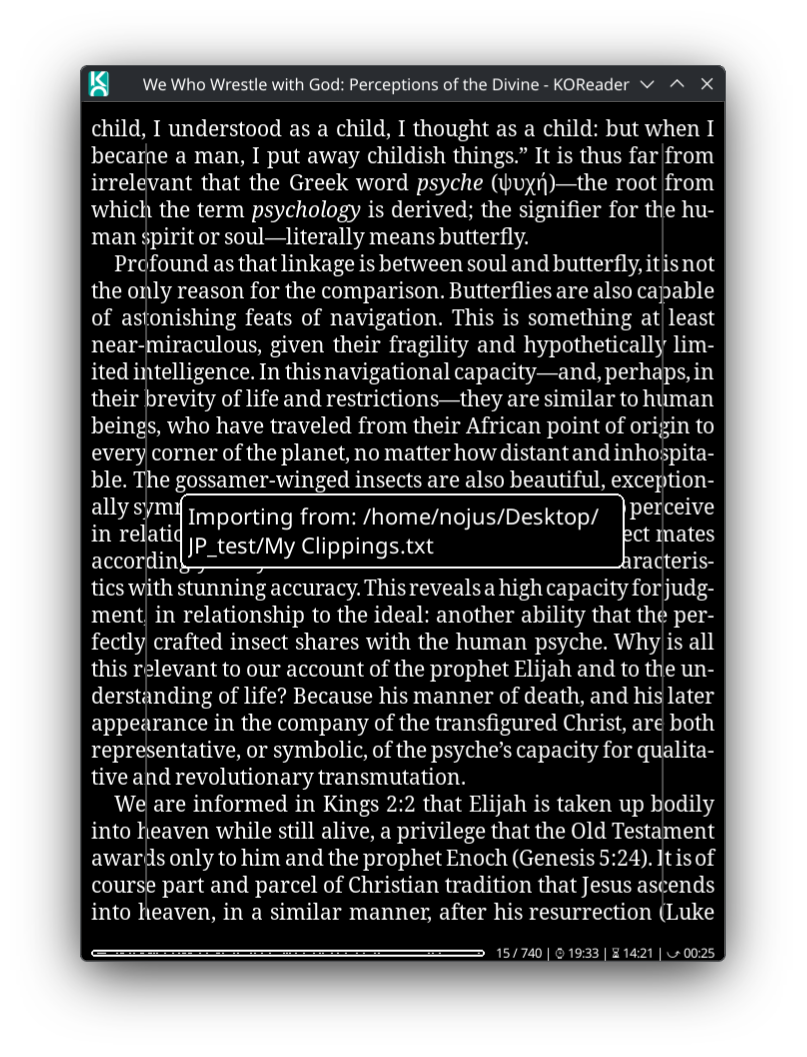
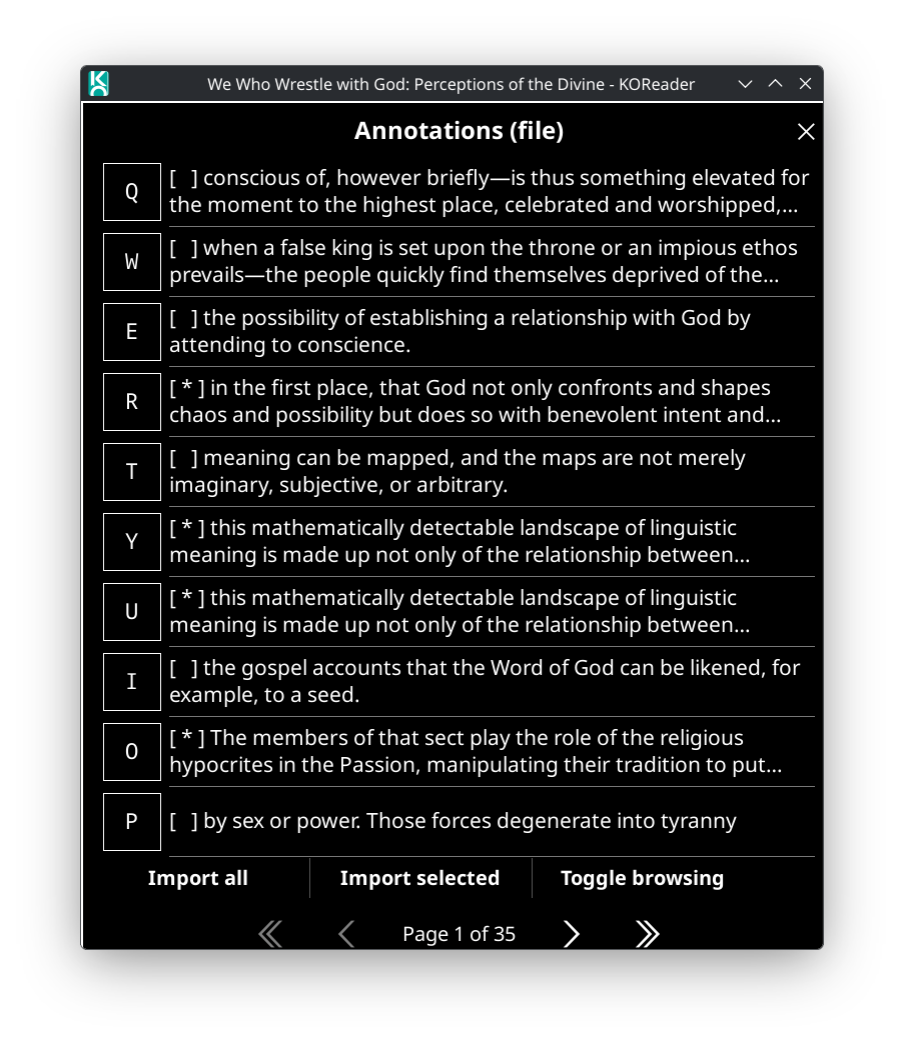
Update instructions

diff --git a/README.md b/README.md
@@ -89,17 +89,14 @@ The plugin should work on any platform that supports KOReader, including:
 
 1. Open the **Highlight Import** menu again (from Typesetting menu)
 2. Tap **>Import<** (the second menu item - the button text changes to show it's ready)
-3. Wait for the import to complete
-   - Import time depends on:
-     - Number of highlights
-     - Device performance
-     - Book complexity
+3. You can select which highlights to import in the next screen, or just tap "Import All"
    
-![Import in progress](screenshots/import.png)
+![Imports view](screenshots/import.png)
 
-4. Check the notification for import results
-   - Shows number of successful imports
-   - Shows number of failed matches
+4. Wait for the import process to complete
+   - This may take a few seconds depending on the number of highlights and book size
+
+![Status popup](screenshots/status.png)
 
 ### Step 6: View Your Highlights
 
@@ -123,10 +120,6 @@ The plugin should work on any platform that supports KOReader, including:
 1. **Check file format**: Ensure you're using Kindle's "My Clippings.txt" format
 2. **Preload content**: Scroll through the entire book before importing
 3. **Check logs**: Look for error messages in KOReader's logs
-
-### Import fails partway through
-
-1. This is known. Since it is alpha version, only exact matches on the book are imported.
 
 ## File Format
 
@@ -171,7 +164,3 @@ This project is licensed under the MIT License - see the [LICENSE](LICENSE) file
 ## Support
 
 - **Issues**: [GitHub Issues](https://github.com/nojux-official/HighlightImport.koplugin/issues)
-
-## Changelog
-
-See [CHANGELOG.md](CHANGELOG.md) for version history and changes.
